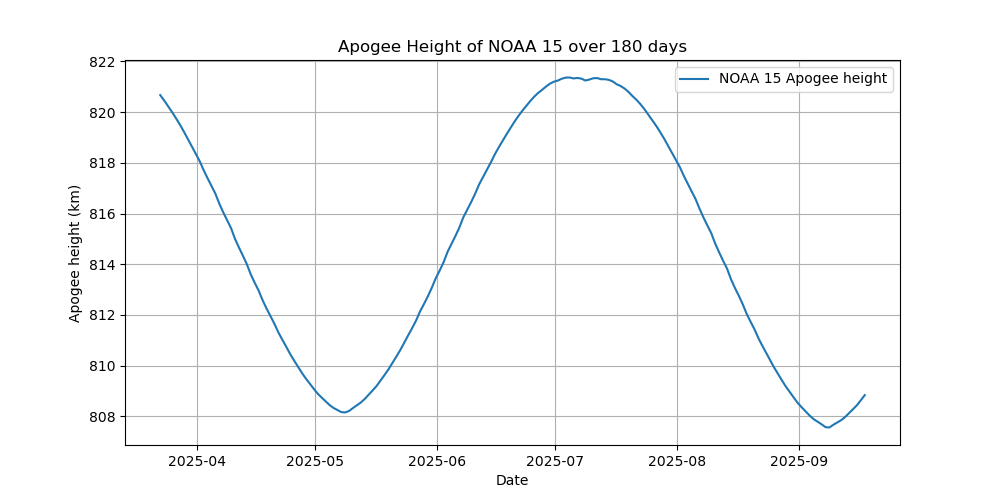
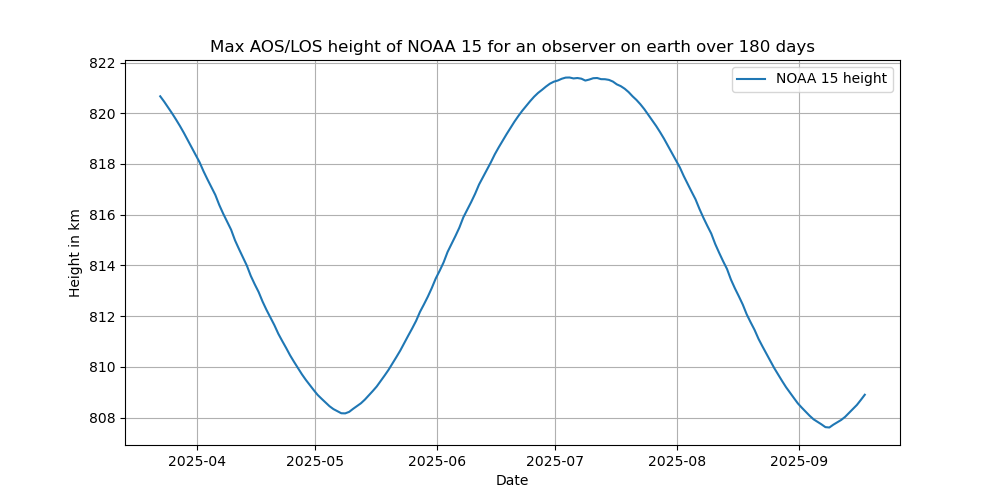
Renamed from apogee to height to fix wrong use of word

diff --git a/satellite_height.py b/satellite_height.py
@@ -65,16 +65,16 @@ def compute_apogee_over_time(tle_lines, days=180, observer_lat=0, observer_lon=0
 def plot_apogee(times, heights, satellite_name, days):
     # Plot the apogee height over time.
     plt.figure(figsize=(10, 5))
-    plt.plot(times, heights, label=f'{satellite_name} Apogee height')
+    plt.plot(times, heights, label=f'{satellite_name} height')
     plt.xlabel('Date')
-    plt.ylabel('Apogee height (km)')
-    plt.title(f'Apogee height of {satellite_name} over {days} days')
+    plt.ylabel('Height in km')
+    plt.title(f'Max AOS/LOS height of {satellite_name} for an observer on earth over {days} days')
     plt.legend()
     plt.grid()
     plt.show()
 
 if __name__ == "__main__":
-    satellite_name = "NOAA 15" #"RADFXSAT (FOX-1B)"#"FUNCUBE-1 (AO-73)"#"EYESAT A (AO-27)" # "OSCAR 7 (AO-7)"#"RS-44 & BREEZE-KM R/B"  # Example satellite
+    satellite_name = "EYESAT A (AO-27)" #"SAUDISAT 1C (SO-50)" #"RADFXSAT (FOX-1B)"#"FUNCUBE-1 (AO-73)"#"EYESAT A (AO-27)" # "OSCAR 7 (AO-7)"#"RS-44 & BREEZE-KM R/B"  # Example satellite
     observer_lat = 49.24
     observer_lon = 7.0
     observer_alt = 400
